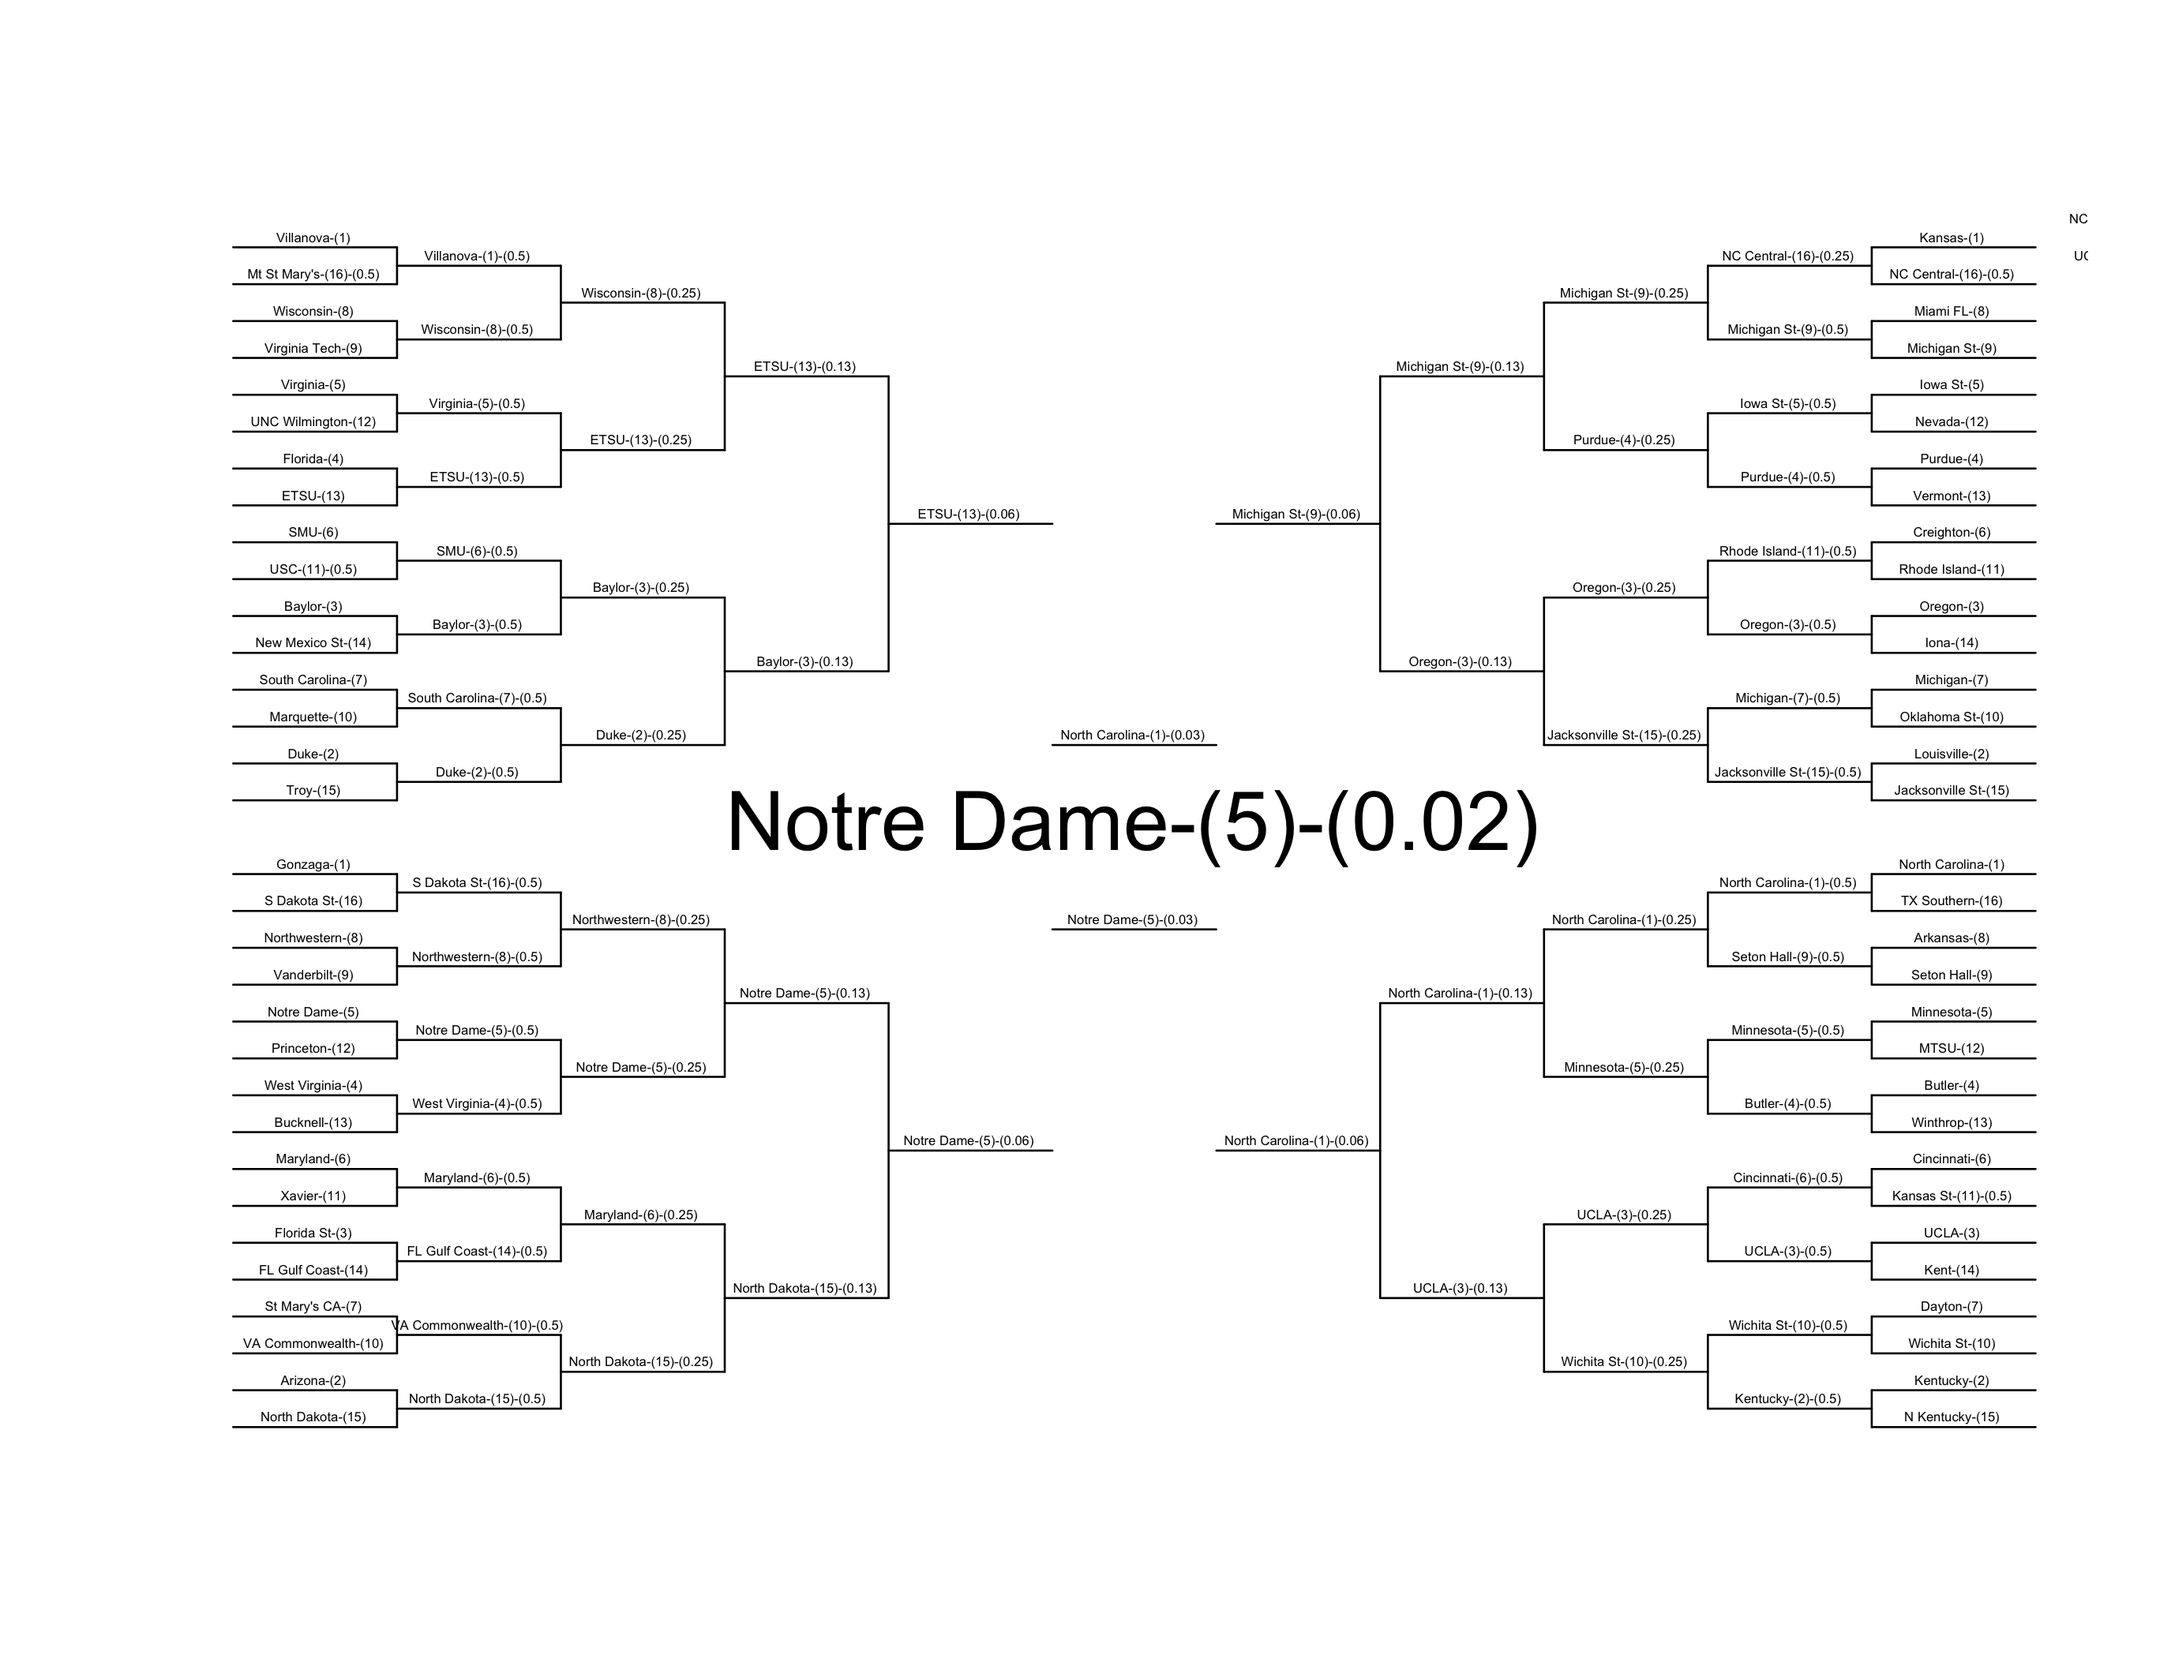
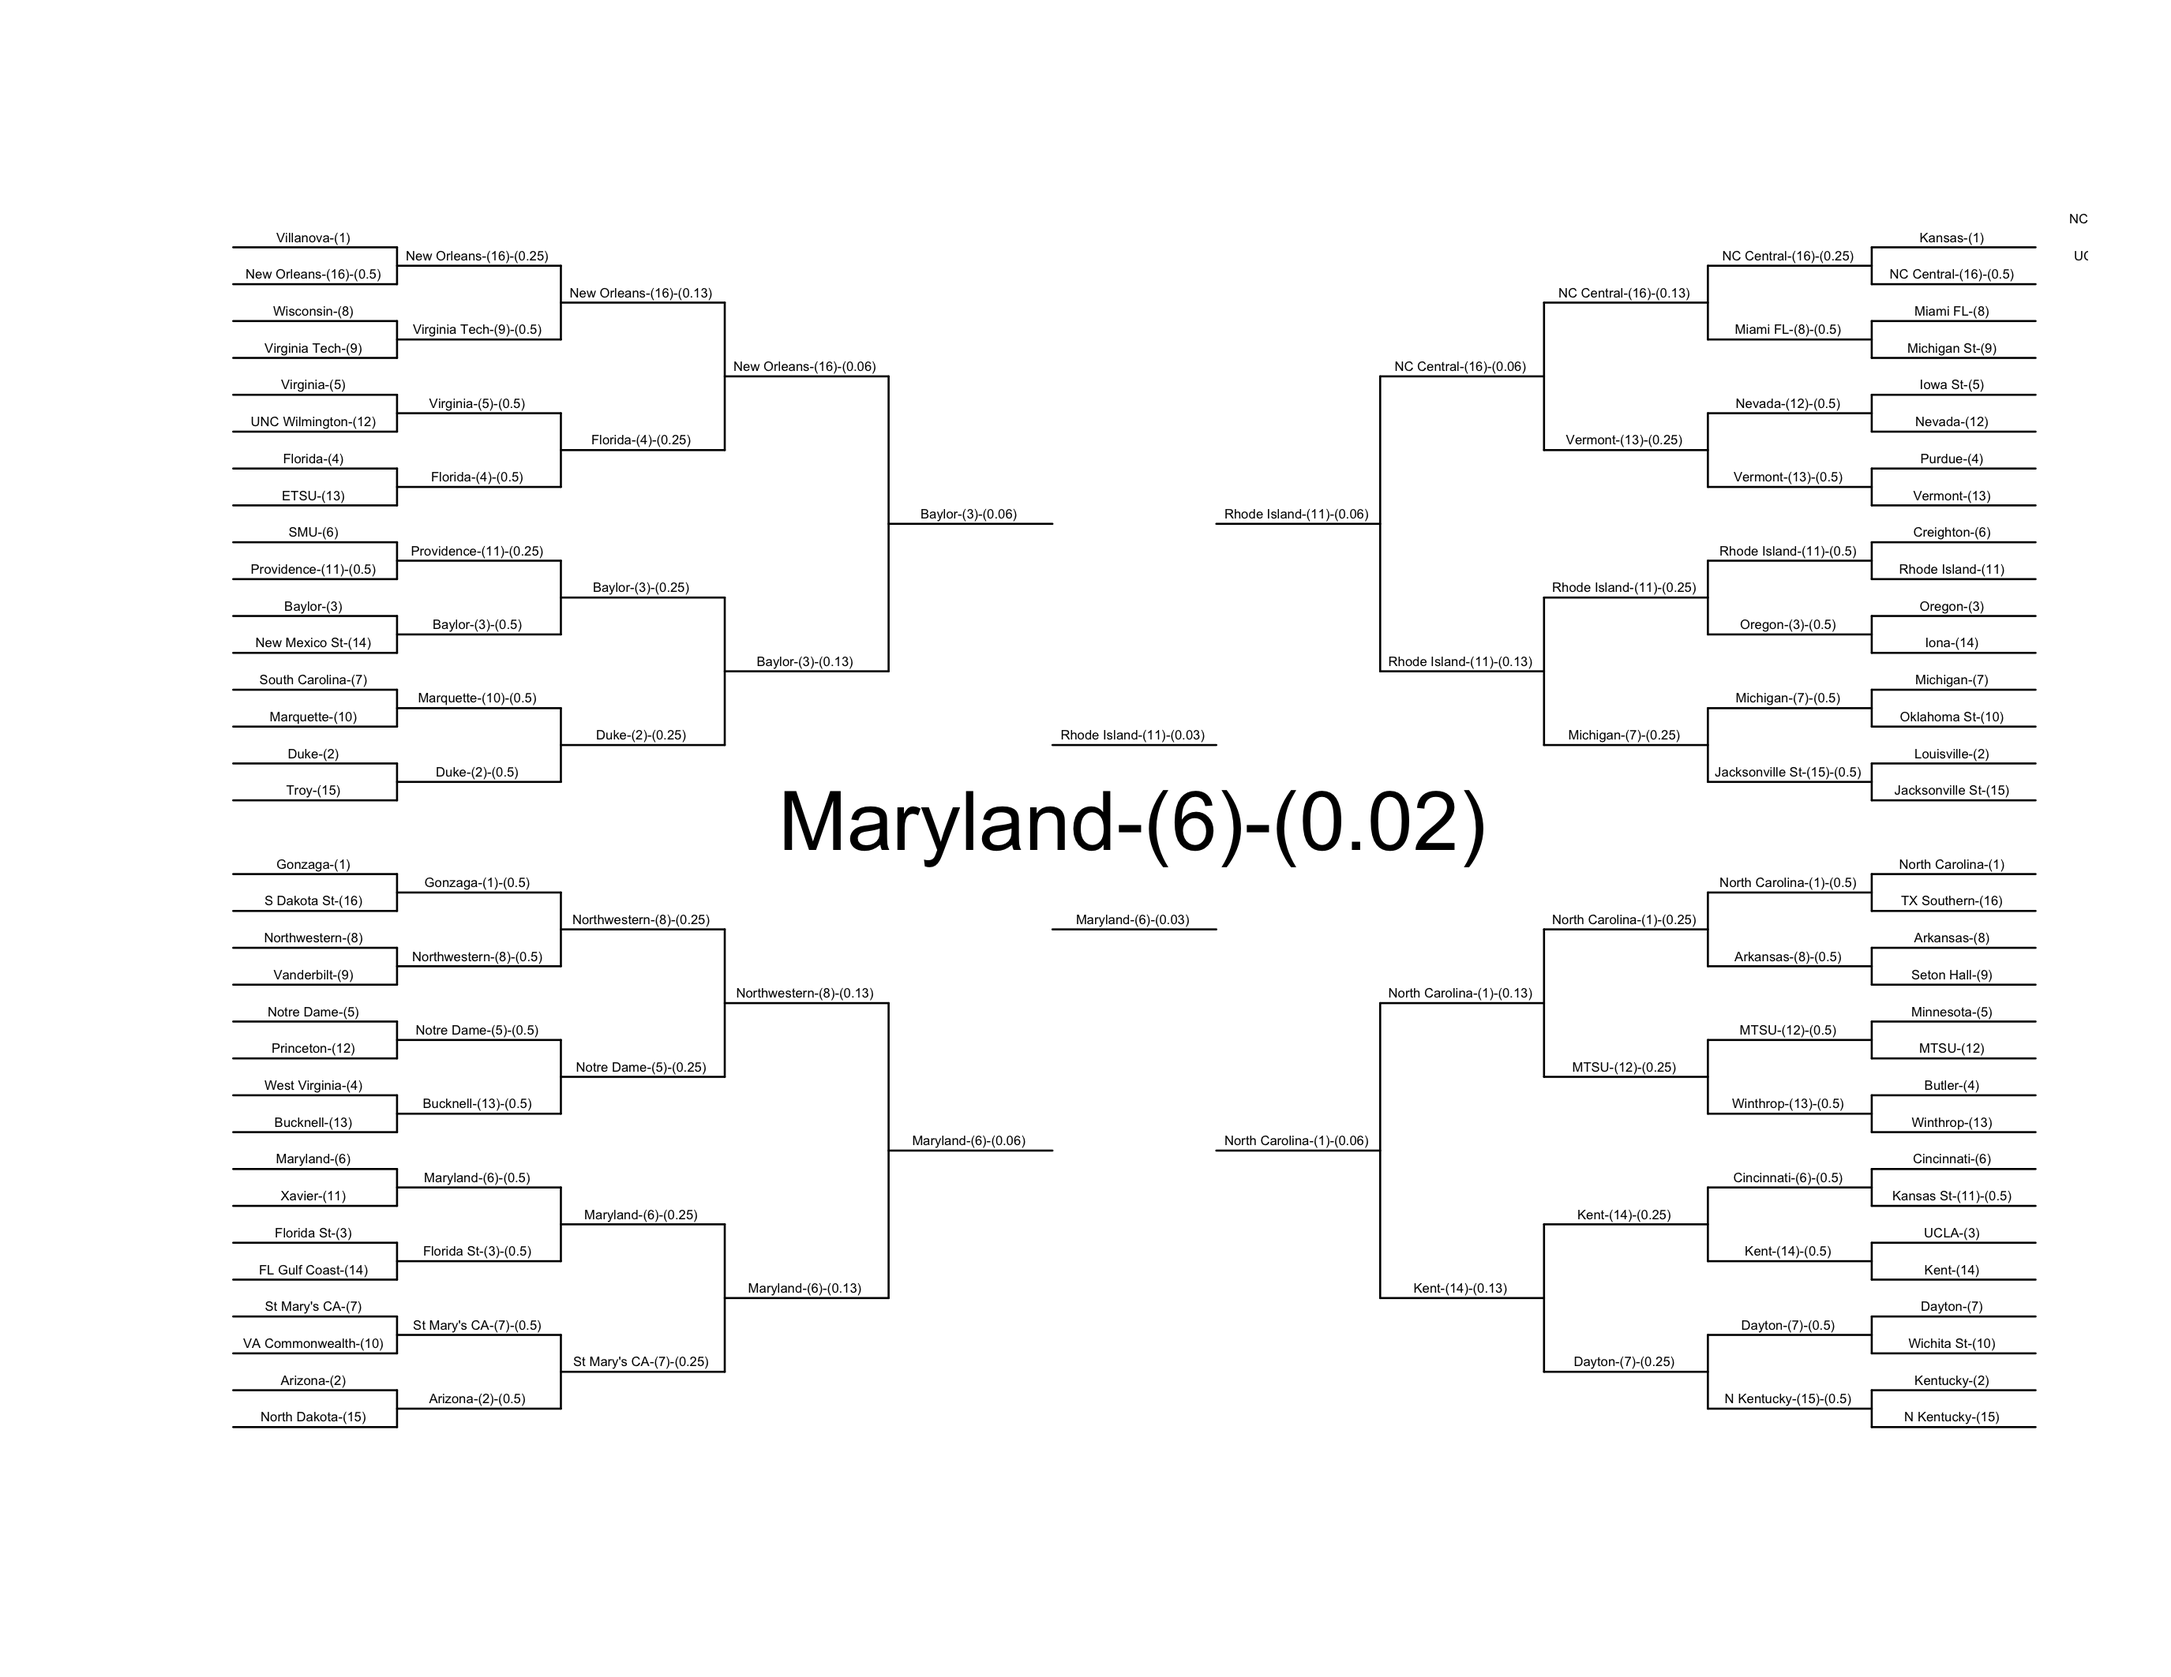
update brackets

diff --git a/README.md b/README.md
@@ -17,7 +17,7 @@ set.seed(1)
 library('kaggleNCAA')
 f <- system.file('kaggle_data/SampleSubmission.csv', package = "kaggleNCAA")
 dat <- parseBracket(f)
-sim <- simTourney(dat, 100, year=2017, progress=TRUE)
+sim <- simTourney(dat, 1000, year=2017, progress=TRUE)
 bracket <- extractBracket(sim)
 printableBracket(bracket)
 ```
